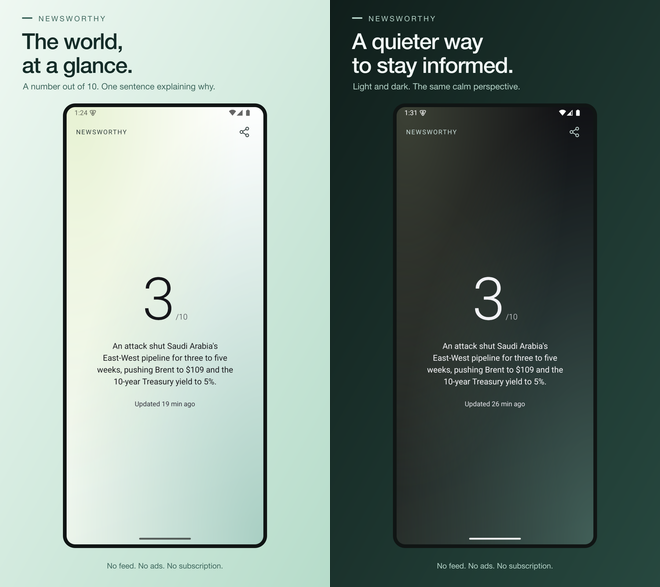
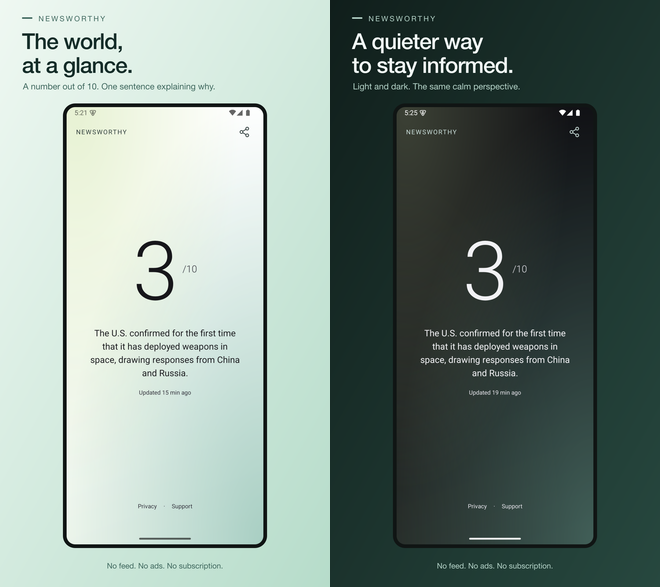
Verify widget theme transitions and refresh Android reading gallery

diff --git a/store/ledger.md b/store/ledger.md
@@ -1,6 +1,6 @@
 # Newsworthy release ledger
 
-Updated: 2026-09-16T09:02:14+00:00
+Updated: 2026-09-16T09:33:15+00:00
 
 Repository: https://github.com/astrojams1/newsworthy
 
@@ -41,7 +41,7 @@ Generated from the adjacent JSON ledger. Update through ledger.py, not this view
 | google.release | todo | agent | observed | No public Android store release. | Release only after review/access approval and verify the public paid listing. |
 | apple.content-rights | done | agent | observed | Saved DOES_NOT_USE_THIRD_PARTY_CONTENT: app presents its generated rating/sentence and original vector artwork, not third-party article/media feeds. | — |
 | host.ui | done | agent | observed | Native UI access restored after the Mac was unlocked. | — |
-| google.artwork | in_progress | agent | observed | The old version-6 artwork set is superseded. About art is removed, and clean widget-size captures plus version-7 reading captures are pending. | Capture version-7 Android reading screens and compact/expanded widgets after Mac unlock, render and inspect the replacement gallery, then mark this gate done. |
+| google.artwork | in_progress | agent | observed | Replaced old reading gallery with actual APK9 light/dark captures and versioned assets. Widget-size comparison remains pending compact native capture. | Add verified compact/expanded widget frames and regenerate first gallery image; keep actual widget surfaces on neutral canvas. |
 | design.reading-screen | in_progress | agent | observed | Removed About route; refined score hierarchy, baseline alignment, sentence spacing, and compact Privacy / Support footer after owner feedback. | Verify the revised screen in replacement native builds, capture native listing images, and feature widgets in the gallery. |
 | native.ui-access | done | agent | observed | Mac is now unlocked; native Android Emulator and iOS Simulator accessibility/screenshot controls are available. | — |
 | design.widget-gallery | in_progress | agent | observed | Apple neutral small/medium gallery completed and uploaded; Android compact/expanded composition remains pending native resizing. | When Android launcher resize handles are available, capture compact and expanded native widgets and replace Android artwork. |
@@ -49,7 +49,7 @@ Generated from the adjacent JSON ledger. Update through ledger.py, not this view
 | native.ios-replacement-ui | done | agent | observed | Replacement iPhone/iPad light and dark screens captured, About absent, iPhone Privacy/Support links load correct pages, iPad share popover opens. | — |
 | apple.gallery-order | done | agent | observed | Apple gallery now leads with neutral small/medium actual-widget composition; all five replacement iPhone/iPad images COMPLETE and old gallery images removed. | — |
 | apple.widget-gallery-revision | done | agent | observed | Replaced clashing wallpaper and unrelated icons with actual small/medium widget viewports on a plain neutral artboard; remote gallery read back COMPLETE. | — |
-| google.widget-fix | in_progress | agent | observed | Installed APK8 completed its next scheduled refresh at16:59:50.826. From16:29 through90 seconds after completion, native logs contain one worker start/success, one widget recreation at16:47 during the deliberate theme change, zero receiver-disable events and no fatal exception. No widget recreation followed the scheduled refresh. Periodic refresh remains functional without the old loop. | Install and verify exact theme-fix APK9; finish fresh compact/expanded resizing and artwork before final AAB build. |
+| google.widget-fix | waiting_user | user | observed | APK9 downloaded, ZIP-validated and installed. Native light/dark/light expanded-widget denominator checks passed with zero worker starts during transitions. Current reading light/dark captures are complete. Launcher existing widget now reports minSpan2x2. Actual compact rendering remains pending; Mac relocked. | Owner unlocks Mac and leaves widget at2x2 using long-press resize handles; alternatively inspect emulator keyboard routing when available. Capture compact and expanded, finish gallery, then final production AAB and PR92. |
 
 ## Evidence and history
 
@@ -925,3 +925,33 @@ Installed APK8 completed its next scheduled refresh at16:59:50.826. From16:29 th
 - store/android-widget-regression.json includes recurringExecution; full device log remains private. Theme-fix APK9 bfb5310e-c8e1-41af-bc01-6037b17701b6 is still IN_PROGRESS.
 
 Next: Install and verify exact theme-fix APK9; finish fresh compact/expanded resizing and artwork before final AAB build.
+
+### 93. google.widget-fix — waiting_user
+
+2026-09-16T09:09:34+00:00 · observed · user
+
+Theme-fix APK9 build finished successfully after12m36s. Artifact download is progressing. CUA reports the Mac is locked and automatic unlock unavailable, preventing native theme/resize checks and captures.
+
+- EAS build bfb5310e-c8e1-41af-bc01-6037b17701b6 Finished in provider UI; existing download watcher remains live and partial file grew17MB to40MB. CUA lock response observed; owner unlock request sent.
+
+Next: Finish downloading and installing APK9 through CLI. Owner unlocks Mac; then resume native theme switching, fresh widget resize and final Android gallery. Do not mark theme or compact size verified while locked.
+
+### 94. google.widget-fix — waiting_user
+
+2026-09-16T09:33:15+00:00 · observed · user
+
+APK9 downloaded, ZIP-validated and installed. Native light/dark/light expanded-widget denominator checks passed with zero worker starts during transitions. Current reading light/dark captures are complete. Launcher existing widget now reports minSpan2x2. Actual compact rendering remains pending; Mac relocked.
+
+- store/release.json artifact SHA25677d5c0c8da4ca6b33092949176cde4daa9677c079472379c9a191546741cc185; source/android-phone/provenance-v9.json and theme screenshots. Native launcher keyboard focus worked, but Ctrl+W/Menu/Ctrl+R did not open picker/resize popup. Store renderer/validator passed for current reading gallery.
+
+Next: Owner unlocks Mac and leaves widget at2x2 using long-press resize handles; alternatively inspect emulator keyboard routing when available. Capture compact and expanded, finish gallery, then final production AAB and PR92.
+
+### 95. google.artwork — in_progress
+
+2026-09-16T09:33:15+00:00 · observed · agent
+
+Replaced old reading gallery with actual APK9 light/dark captures and versioned assets. Widget-size comparison remains pending compact native capture.
+
+- store/preview-android.png visually inspected; manifest points to12-reading-light-v9.png and13-reading-dark-v9.png. Renderer/metadata validator passed. About excluded.
+
+Next: Add verified compact/expanded widget frames and regenerate first gallery image; keep actual widget surfaces on neutral canvas.

diff --git a/store/README.md b/store/README.md
@@ -10,9 +10,12 @@ without stock wallpaper or unrelated app icons. Updated iPhone/iPad reading
 captures show the approved design and Privacy/Support footer.
 
 Android version 7 exposed a widget refresh loop that flickers and interrupts
-resizing. Corrected APK8 is installed and AAB9 is downloaded. A 65-second
-native log check found no repeat workers or widget recreations; fresh compact
-resize verification remains pending. The Android preview below is provisional. Google account verification
+resizing. APK8 passed idle and scheduled-refresh checks without recurring
+widget recreation. A theme switch exposed a separate denominator contrast issue;
+APK9 is installed and passed native light/dark/light widget transitions. Current
+reading images are refreshed from APK9. The launcher now reports minimum2×2,
+but actual compact rendering still needs a capture. The earlier production AAB9
+needs replacement. The Android preview below is provisional. Google account verification
 still blocks app creation. See the ledger for current gates and exact next actions.
 
 ![iPhone listing artwork](preview.png)
@@ -100,19 +103,20 @@ All five replacement images were read back COMPLETE in the correct order; see
 [Apple gallery verification](apple-gallery-verification.json). Native simulator
 checks do not establish physical-device certification.
 
-Android reading captures currently in `source/android-phone/` are
-`01-reading-light.png` and `02-reading-dark.png`, from previous preview build
-`f3dddec5-23f3-4a41-8fd6-e0d4f79ee366` on the API 35 ARM64 emulator
-(1080×2400). The renderer frames them as 1080×1920 Google Play images and
-reports missing captures rather than substituting iOS screenshots. The old About
-capture remains historical source evidence and is never rendered into the gallery.
-The renderer expects `source/android-phone/widget-frames.json` to identify actual
-compact/expanded native captures and their viewport bounds. It then produces
-`03-widget-sizes-v8.png` as the first Android gallery image. Capture new reading images from
-the corrected Android build before describing this gallery as final.
-The offline capture is retained as test evidence, outside the store gallery.
-The earlier APK screenshots are not release assets because they exposed the
-SVG-rendering defect.
+Android reading assets now use `12-reading-light-v9.png` and
+`13-reading-dark-v9.png`, from preview APK9
+`bfb5310e-c8e1-41af-bc01-6037b17701b6` on the API35 ARM64 emulator
+(1080×2400). `provenance-v9.json` records hashes and native verification scope.
+The renderer frames them as 1080×1920 Google Play images. Earlier captures,
+including About and offline evidence, remain historical source files and are
+excluded from the current gallery.
+
+The widget renderer expects `source/android-phone/widget-frames.json` to identify
+actual compact/expanded captures, viewport bounds, and the verified `versionCode`.
+It then creates a versioned widget comparison as the first Android gallery image.
+The expanded widget passed light→dark→light contrast checks without a worker run;
+compact sizing is not yet verified visually. A 2×2 launcher minimum is metadata
+evidence, not a substitute for inspecting the compact widget.
 
 The pasted macOS crash report identified Android Emulator startup, not
 Newsworthy. Local emulator library/resource paths were corrected, and the

diff --git a/store/design/widget-gallery-brief.md b/store/design/widget-gallery-brief.md
@@ -56,10 +56,16 @@ Android version 7 expanded rendering was captured as diagnostic evidence in
 observed flicker, resize resets and the oversized denominator. Native logs show
 a one-time WorkManager completion → component/package change → widget onUpdate
 → new worker loop about every second. This recreates the widget during resizing.
-Corrected APK8 is installed, and AAB9 is downloaded and ZIP-validated. Native
-logs show zero worker restarts or widget recreations over 65 seconds; the small
-baseline `/10` is visible. Automated drags on the resize controls inherited from
-the older build did not change the settled size. A fresh owner resize attempt
-is pending because CUA cannot reliably send the sustained Android press.
-Do not mark compact sizing verified or use version 7 for final widget marketing. Replacement iPad light/dark captures are
-complete and the corrected Apple gallery is uploaded and waiting for review.
+APK8 passed an initial idle check and its next scheduled refresh without a
+recreation loop. A theme transition exposed a separate inline `/10` color issue;
+APK9 replaces it with a baseline-aligned XML-themed text view. Native
+light→dark→light transitions passed without a worker run, and current light/dark
+reading images are captured. See `source/android-phone/provenance-v9.json`.
+
+The launcher now reports minimum2×2 for the existing widget (previously3×3), but
+a compact native capture is still required. Keyboard focus worked; shortcut
+routing did not expose the resize popup. The Mac relocked before the emulator
+routing settings could be inspected. Finish the actual compact/expanded capture
+before completing the Android comparison artwork or producing the final AAB.
+Replacement iPad light/dark captures are complete and the corrected Apple gallery
+is uploaded and waiting for review.

diff --git a/store/user-actions.md b/store/user-actions.md
@@ -114,16 +114,17 @@ September 16. Native iPhone/iPad light/dark screens, iPhone small/medium widgets
 Privacy/Support links and iPad share popover have been checked. Physical-device
 and large-text behavior remain unclaimed.
 
-Corrected Android preview APK8 is installed, and production AAB9 is downloaded
-and validated. A 65-second native log check found no repeated workers or widget
-recreations after the refresh-loop fix. The smaller baseline `/10` is visible.
-A fresh compact/expanded resize check is pending; the computer-control tool did
-not reliably reopen sustained-press resize controls. There is no current Mac
-unlock request. The Android gallery remains provisional until updated captures
-are complete. The launcher still reports the existing widget as minimum 3×3,
-while installed provider metadata reports 120dp minima. If reopening resize
-controls still cannot shrink it, remove and re-add that widget through the
-launcher to check whether it retained the old size limits.
+Android preview APK8 verified the refresh-loop fix, including its next scheduled
+refresh without recurring widget recreation. APK9 is installed and passed native
+light→dark→light widget contrast checks. Current light/dark reading images are
+captured; the earlier production AAB9 must be replaced after sizing verification.
+
+A fresh compact/expanded resize check is pending. The launcher now reports a
+2×2 minimum for the existing widget, but actual compact rendering is not yet
+captured. The control tool could focus the widget but did not expose its resize
+popup through the available shortcut routing. With the Mac unlocked, press and
+hold the widget, then drag its handles to 2×2. Leave it at that size for capture.
+The agent can finish the gallery once that native state is available.
 
 The remaining technical release work is:
 
